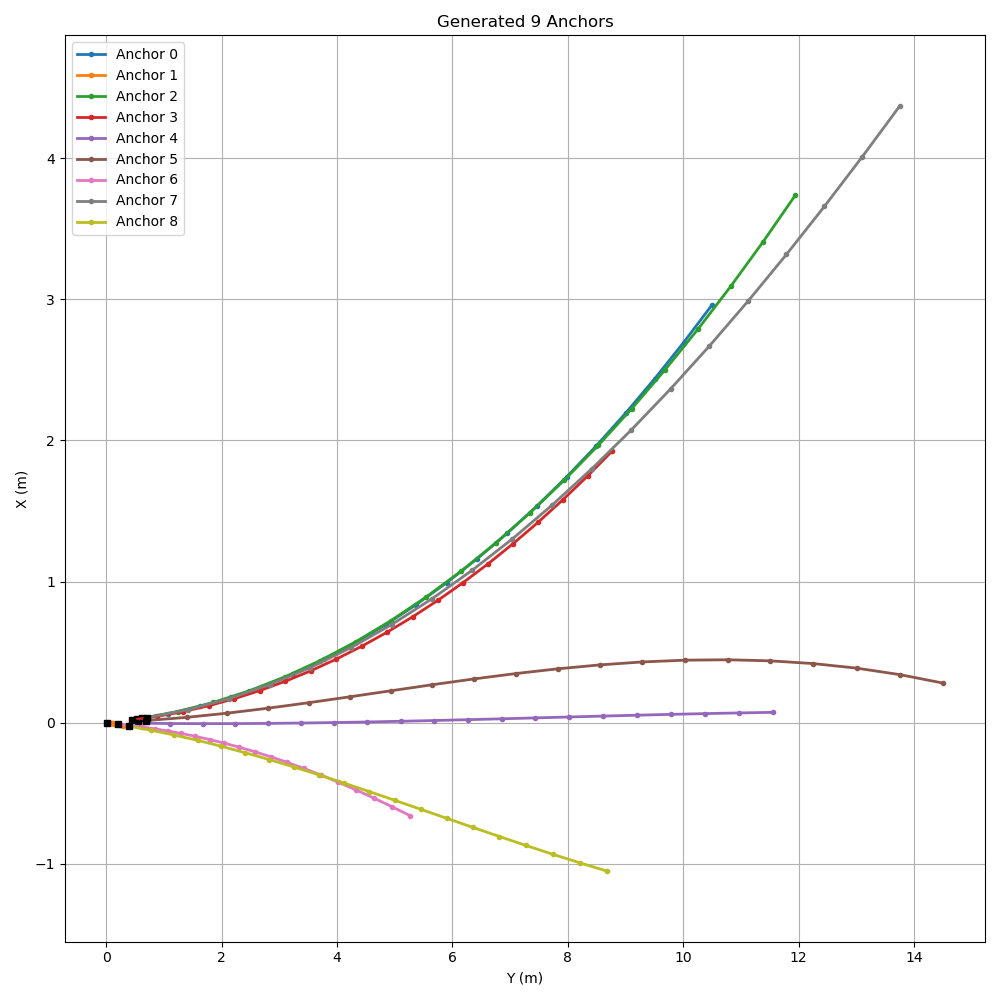
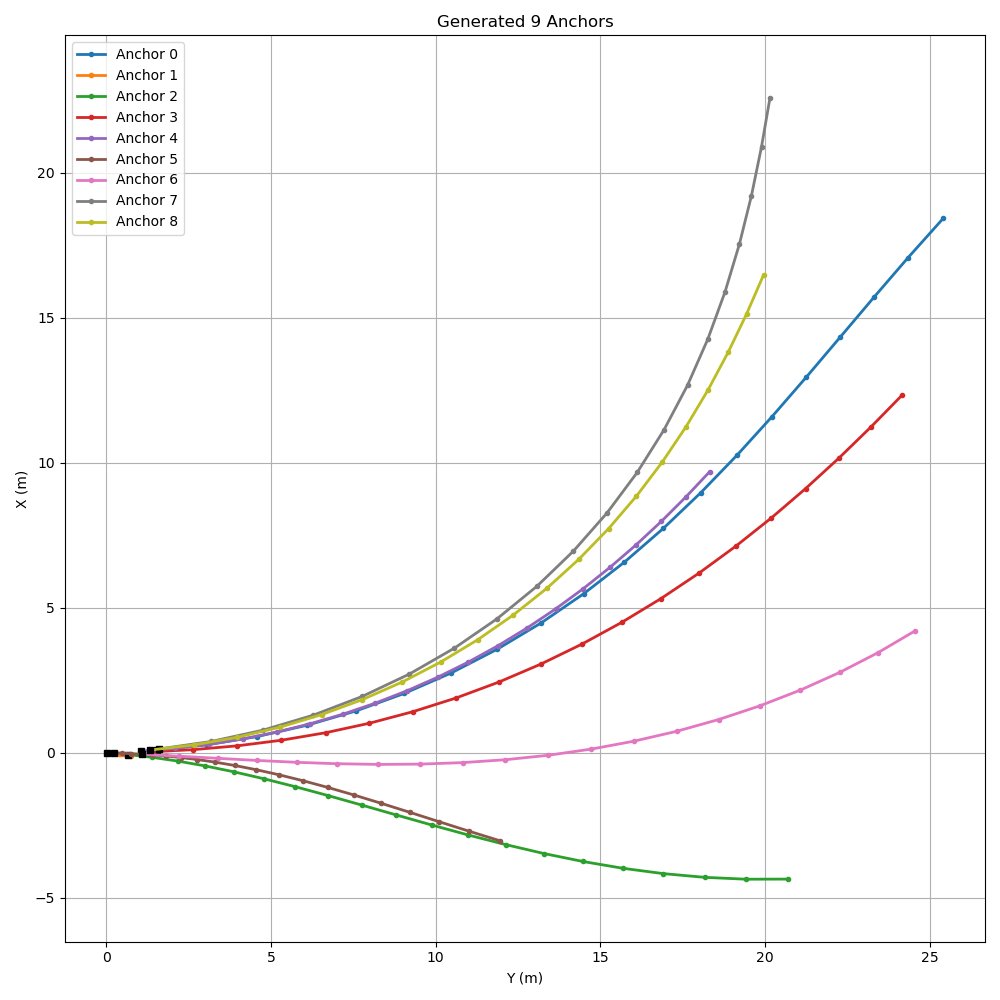
修复round数据集的ds问题

diff --git a/method_diffusion/models/fut_model.py b/method_diffusion/models/fut_model.py
@@ -5,7 +5,7 @@ import torch.nn.functional as F
 from torch import nn
 from diffusers.schedulers import DDIMScheduler
 
-from method_diffusion.dataset.build import get_time_params
+from method_diffusion.dataset.build import get_raw_dt, get_time_params
 from method_diffusion.models import dit_fut as dit
 from method_diffusion.models.hist_encoder import HistEncoder
 from method_diffusion.utils.fut_utils import build_eval_timestep_pairs, ddim_step, wrap_angle
@@ -30,6 +30,7 @@ class DiffusionFut(nn.Module):
         self.time_embedding_size = int(args.time_embedding_size_fut)
         t_h, _, d_s, fut_steps = get_time_params(self.dataset_name)
         self.T = fut_steps
+        self.fut_dt = get_raw_dt(self.dataset_name) * int(d_s)
         self.fut_k = max(1, int(args.fut_k))
         args.hist_length = t_h // d_s + 1 # (RounD=11, 其他=16)
 
@@ -70,14 +71,14 @@ class DiffusionFut(nn.Module):
 
         # 仅对 Ego future 做归一化，当前 future 定义为 [x, y, theta, v]。
         if self.dataset_name == "ngsim":
-            self.register_buffer("fut_mean", torch.tensor([-0.018481300419643788, 19.901456979887765, 1.534715060900053, 7.686064458330523], dtype=torch.float32), persistent=False)
-            self.register_buffer("fut_std", torch.tensor([0.39658419502216957, 17.144594402690345, 0.2643295194116367, 4.498907161934344], dtype=torch.float32), persistent=False)
+            self.register_buffer("fut_mean", torch.tensor([-0.018481300192213692, 19.901456733555143, 1.5347150608999751, 7.688126783170447], dtype=torch.float32), persistent=False)
+            self.register_buffer("fut_std", torch.tensor([0.3965841901361471, 17.14459418994866, 0.2643295194022676, 4.496338420923352], dtype=torch.float32), persistent=False)
         elif self.dataset_name == "highd":
-            self.register_buffer("fut_mean", torch.tensor([0.01993634166889612, 67.40101141151132, 1.5697229208053323, 25.932893225547133], dtype=torch.float32), persistent=False)
-            self.register_buffer("fut_std", torch.tensor([0.41100463701171336, 43.3330928936307, 0.04856180398145771, 7.371995854137716], dtype=torch.float32), persistent=False)
+            self.register_buffer("fut_mean", torch.tensor([0.019936341418358722, 67.40101057744636, 1.5697229208053853, 25.932254791953657], dtype=torch.float32), persistent=False)
+            self.register_buffer("fut_std", torch.tensor([0.4110046317788714, 43.33309235856911, 0.048561804002511096, 7.373680213426009], dtype=torch.float32), persistent=False)
         elif self.dataset_name == "round":
-            self.register_buffer("fut_mean", torch.tensor([0.7595664185247786, 5.124497475239467, 1.2556389840836275, 6.34337379345497], dtype=torch.float32), persistent=False)
-            self.register_buffer("fut_std", torch.tensor([1.1549527518280254, 3.789278215200064, 0.5711560130982952, 2.7548072256166347], dtype=torch.float32), persistent=False)
+            self.register_buffer("fut_mean", torch.tensor([4.144265328735691, 10.315414212723727, 0.9530915750767849, 5.86565709902721], dtype=torch.float32), persistent=False)
+            self.register_buffer("fut_std", torch.tensor([5.759155224937898, 7.615898744195818, 0.6706842296092105, 2.875255178810614], dtype=torch.float32), persistent=False)
         else:
             raise ValueError(f"Unsupported dataset '{self.dataset_name}' for fut normalization. Supported: highd, ngsim, round")
 
@@ -87,36 +88,35 @@ class DiffusionFut(nn.Module):
 
     def computeKinematicLoss(self, pred_phys, valid_mask, fut_dt):
         loss_fn = F.l1_loss # F.smooth_l1_loss
-        x = pred_phys[..., 0]
-        y = pred_phys[..., 1]
+        xy = pred_phys[..., :2]
         theta = pred_phys[..., 2]
         v = pred_phys[..., 3]
 
-        x_kin_next = x[:, :-1] + v[:, :-1] * torch.cos(theta[:, :-1]) * fut_dt
-        y_kin_next = y[:, :-1] + v[:, :-1] * torch.sin(theta[:, :-1]) * fut_dt
-        rx = x[:, 1:] - x_kin_next
-        ry = y[:, 1:] - y_kin_next
+        origin = xy.new_zeros(xy.size(0), 1, 2)
+        xy_prev = torch.cat([origin, xy[:, :-1]], dim=1)
+        xy_kin = xy_prev + torch.stack([
+            v * torch.cos(theta) * fut_dt,
+            v * torch.sin(theta) * fut_dt,
+        ], dim=-1)
+        residual = xy - xy_kin
 
-        valid_pair = valid_mask[:, :-1] * valid_mask[:, 1:]
-        valid_pair_sum = valid_pair.sum()
-        if valid_pair_sum.item() <= 0:
+        valid_sum = valid_mask.sum()
+        if valid_sum.item() <= 0:
             zero = pred_phys.new_zeros(())
             return zero, zero
 
-        kin_pred = torch.stack([rx, ry], dim=-1)
-        kin_target = torch.zeros_like(kin_pred)
-        loss_map = loss_fn(kin_pred, kin_target, reduction="none").mean(dim=-1)
-        loss_kin = (loss_map * valid_pair).sum() / (valid_pair_sum + 1e-6)
-        kin_res = torch.sqrt(rx.square() + ry.square() + 1e-12)
-        kin_res_mean = (kin_res * valid_pair).sum() / (valid_pair_sum + 1e-6)
+        kin_target = torch.zeros_like(residual)
+        loss_map = loss_fn(residual, kin_target, reduction="none").mean(dim=-1)
+        loss_kin = (loss_map * valid_mask).sum() / (valid_sum + 1e-6)
+        kin_res = torch.sqrt(residual.square().sum(dim=-1) + 1e-12)
+        kin_res_mean = (kin_res * valid_mask).sum() / (valid_sum + 1e-6)
         return loss_kin, kin_res_mean
 
     def computeLoss(self, pred_phys, target_phys, valid_mask):
         lambda_xy = 1.0
-        lambda_theta = 0.0
-        lambda_v = 0.0
+        lambda_theta = 0.1
+        lambda_v = 0.1
         lambda_kin = 0.10
-        fut_dt = 0.2
         loss_fn = F.l1_loss
 
         valid_sum = valid_mask.sum(dim=1) + 1e-6
@@ -128,10 +128,11 @@ class DiffusionFut(nn.Module):
         theta_loss_map = loss_fn(theta_diff, torch.zeros_like(theta_diff), reduction="none")
         loss_theta = ((theta_loss_map * valid_mask).sum(dim=1) / valid_sum).mean()
 
-        v_loss_map = loss_fn(pred_phys[..., 3], target_phys[..., 3], reduction="none")
+        v_scale = self.fut_std.to(device=pred_phys.device, dtype=pred_phys.dtype)[3].clamp(min=1e-6)
+        v_loss_map = loss_fn((pred_phys[..., 3] - target_phys[..., 3]) / v_scale, torch.zeros_like(pred_phys[..., 3]), reduction="none")
         loss_v = ((v_loss_map * valid_mask).sum(dim=1) / valid_sum).mean()
 
-        loss_kin, kin_res_mean = self.computeKinematicLoss(pred_phys, valid_mask, fut_dt)
+        loss_kin, kin_res_mean = self.computeKinematicLoss(pred_phys, valid_mask, self.fut_dt)
         loss_total = lambda_xy * loss_xy + lambda_theta * loss_theta + lambda_v * loss_v + lambda_kin * loss_kin
         logs = {
             "loss": loss_total.detach(),

diff --git a/method_diffusion/dataset/future_features.py b/method_diffusion/dataset/future_features.py
@@ -34,7 +34,19 @@ def derive_speed_from_positions(abs_positions, ref_position, step_dt):
     return speed.astype(np.float32, copy=False)
 
 
-def build_future_xy_theta_v(track, frame_idx, t_f, d_s):
+def build_xy_theta_v_from_positions(xy_positions, ref_position, d_s, track_dt=TRACK_DT):
+    """从位置差分统一生成 motion-state [x, y, theta, v]。"""
+    xy_positions = np.asarray(xy_positions, dtype=np.float32)
+    if xy_positions.ndim != 2 or xy_positions.shape[-1] != 2:
+        raise ValueError(f"Expected xy_positions with shape [T, 2], got {xy_positions.shape}")
+
+    step_dt = float(track_dt) * int(d_s)
+    theta = derive_theta_from_positions(xy_positions, ref_position)
+    speed = derive_speed_from_positions(xy_positions, ref_position, step_dt)
+    return np.concatenate([xy_positions, theta, speed], axis=1).astype(np.float32, copy=False)
+
+
+def build_future_xy_theta_v(track, frame_idx, t_f, d_s, track_dt=TRACK_DT):
     ref_position = track[frame_idx, 1:3].astype(np.float32, copy=False)
     start_idx = frame_idx + int(d_s)
     end_idx = min(len(track), frame_idx + int(t_f) + 1)
@@ -43,21 +55,16 @@ def build_future_xy_theta_v(track, frame_idx, t_f, d_s):
         return np.empty((0, 4), dtype=np.float32)
 
     future_xy = future_abs - ref_position
-    theta = derive_theta_from_positions(future_abs, ref_position)
-    future_v = track[start_idx:end_idx:int(d_s), 3:4].astype(np.float32, copy=False)
-    return np.concatenate([future_xy, theta, future_v], axis=1).astype(np.float32, copy=False)
+    return build_xy_theta_v_from_positions(future_xy, np.zeros(2, dtype=np.float32), d_s, track_dt=track_dt)
 
 
-def build_anchor_xy_theta_v(anchor_xy, d_s):
+def build_anchor_xy_theta_v(anchor_xy, d_s, track_dt=TRACK_DT):
     anchor_xy = np.asarray(anchor_xy, dtype=np.float32)
     if anchor_xy.ndim != 3 or anchor_xy.shape[-1] != 2:
         raise ValueError(f"Expected anchor_xy with shape [K, T, 2], got {anchor_xy.shape}")
 
-    step_dt = TRACK_DT * int(d_s)
     anchor_aug = []
     zero_ref = np.zeros(2, dtype=np.float32)
     for traj_xy in anchor_xy:
-        theta = derive_theta_from_positions(traj_xy, zero_ref)
-        speed = derive_speed_from_positions(traj_xy, zero_ref, step_dt)
-        anchor_aug.append(np.concatenate([traj_xy, theta, speed], axis=1))
+        anchor_aug.append(build_xy_theta_v_from_positions(traj_xy, zero_ref, d_s, track_dt=track_dt))
     return np.stack(anchor_aug, axis=0).astype(np.float32, copy=False)

diff --git a/method_diffusion/dataset/calculate_round_stats.py b/method_diffusion/dataset/calculate_round_stats.py
@@ -19,12 +19,12 @@ import torch
 from torch.utils.data import Dataset, DataLoader
 from tqdm import tqdm
 
-from method_diffusion.dataset.build import get_time_params
-from method_diffusion.dataset.future_features import derive_theta_from_positions
+from method_diffusion.dataset.build import get_raw_dt, get_time_params
+from method_diffusion.dataset.future_features import build_xy_theta_v_from_positions
 
 
 # ---------------------------------------------------------------------------
-# 轻量 Dataset：仅提取 future [x,y,θ,v]、hist [x,y]、va [lon_vel,lat_vel]
+# 轻量 Dataset：仅提取 future [x,y,θ,v]、hist [x,y]、va [lon_vel,lon_acc]
 # 不做邻居搜索、不做网格编码、不做 lat/lon encoding
 # ---------------------------------------------------------------------------
 
@@ -32,14 +32,15 @@ class RounDStatsDataset(Dataset):
     """
     极简 RounD 数据访问器，对齐 NgsimFutureDataset 的轻量模式。
 
-    tracks 列: Frame(0), X(1), Y(2), Heading(3), LonVel(4), LatVel(5), ...
+    tracks 列: Frame(0), X(1), Y(2), Heading(3), LonVel(4), LatVel(5), LonAcc(6), ...
     输出 (fut, hist, va)，其中 fut 为 ego-frame [x, y, θ, v]。
     """
 
-    def __init__(self, mat_file, t_h=20, t_f=40, d_s=2):
+    def __init__(self, mat_file, t_h=50, t_f=100, d_s=5):
         self.t_h = int(t_h)
         self.t_f = int(t_f)
         self.d_s = int(d_s)
+        self.raw_dt = get_raw_dt("round")
         self.max_hist = t_h // d_s + 1  # 11
         self.max_fut = t_f // d_s       # 20
 
@@ -47,6 +48,7 @@ class RounDStatsDataset(Dataset):
         self.IDX_Y = 2
         self.IDX_HEADING = 3
         self.IDX_LON_VEL = 4
+        self.IDX_LON_ACC = 6
 
         self.D, self.T = self._load(mat_file)
         self._track_cache = {}
@@ -137,9 +139,7 @@ class RounDStatsDataset(Dataset):
             return None
 
         fut_xy = self._rotate_to_ego(fut_global, ego_pos, ego_heading)
-        theta = derive_theta_from_positions(fut_xy, np.zeros(2, dtype=np.float32))
-        speed = track[fut_start:fut_end:self.d_s, self.IDX_LON_VEL:self.IDX_LON_VEL + 1].astype(np.float32)
-        fut = np.concatenate([fut_xy, theta, speed], axis=1).astype(np.float32)
+        fut = build_xy_theta_v_from_positions(fut_xy, np.zeros(2, dtype=np.float32), self.d_s, track_dt=self.raw_dt)
 
         # --- hist: ego-frame [x, y] ---
         hist_start = max(0, frame_idx - self.t_h)
@@ -148,8 +148,9 @@ class RounDStatsDataset(Dataset):
             return None
         hist = self._rotate_to_ego(hist_global, ego_pos, ego_heading)
 
-        # --- va: [lon_vel, lat_vel] ---
-        va = track[hist_start:frame_idx + 1:self.d_s, self.IDX_LON_VEL:self.IDX_LON_VEL + 2].astype(np.float32)
+        # --- va: [lon_vel, lon_acc] ---
+        hist_track = track[hist_start:frame_idx + 1:self.d_s]
+        va = np.column_stack((hist_track[:, self.IDX_LON_VEL], hist_track[:, self.IDX_LON_ACC])).astype(np.float32)
         if len(va) < self.max_hist:
             return None
 

diff --git a/method_diffusion/dataset/build.py b/method_diffusion/dataset/build.py
@@ -8,13 +8,19 @@ from method_diffusion.dataset.round_dataset import RoundDataset, RoundHistDatase
 SUPPORTED_DATASETS = ("ngsim", "highd", "round")
 
 # 数据集默认时间参数: (t_h, t_f, d_s, fut_steps)
-#   t_h, t_f = 原始帧数 (0.1s/帧)
-#   d_s       = 降采样步长 (2 → 0.2s/步)
+#   t_h, t_f = 原始帧数
+#   d_s       = 降采样步长
 #   fut_steps = 模型输出的未来步数 (= t_f / d_s)
 _DATASET_TIME_PARAMS = {
     "ngsim":  (30, 50, 2, 25),
     "highd":  (30, 50, 2, 25),
-    "round":  (20, 40, 2, 20),
+    "round":  (50, 100, 5, 20),
+}
+
+_DATASET_RAW_DT = {
+    "ngsim": 0.1,
+    "highd": 0.1,
+    "round": 0.04,
 }
 
 
@@ -29,6 +35,11 @@ def normalize_dataset_name(dataset):
 def get_time_params(dataset):
     """返回 (t_h, t_f, d_s, fut_steps)。调用方可用 fut_steps 设置模型 T_f。"""
     return _DATASET_TIME_PARAMS[normalize_dataset_name(dataset)]
+
+
+def get_raw_dt(dataset):
+    """返回原始轨迹帧间隔，单位秒。"""
+    return _DATASET_RAW_DT[normalize_dataset_name(dataset)]
 
 
 def get_data_root(args, dataset):

diff --git a/method_diffusion/dataset/round_dataset.py b/method_diffusion/dataset/round_dataset.py
@@ -4,7 +4,7 @@ from torch.utils.data import Dataset
 import scipy.io as scp
 import h5py
 
-from method_diffusion.dataset.future_features import derive_theta_from_positions
+from method_diffusion.dataset.future_features import build_xy_theta_v_from_positions
 
 
 class RoundDataset(Dataset):
@@ -15,7 +15,7 @@ class RoundDataset(Dataset):
     history / neighbor 使用 ego 局部坐标，future 为 [x, y, theta, v]。
     """
 
-    def __init__(self, mat_file, t_h=20, t_f=40, d_s=2, enc_size=64, grid_size=(13, 3), feature_dim=4):
+    def __init__(self, mat_file, t_h=50, t_f=100, d_s=5, enc_size=64, grid_size=(13, 3), feature_dim=4):
         self.D, self.T = self._load_mat(mat_file)
         self.t_h = int(t_h)
         self.t_f = int(t_f)
@@ -23,6 +23,7 @@ class RoundDataset(Dataset):
         self.enc_size = int(enc_size)
         self.grid_size = grid_size
         self.feature_dim = int(feature_dim)
+        self.raw_dt = 0.04
         self.max_hist_len = self.t_h // self.d_s + 1
         self.max_fut_len = self.t_f // self.d_s if self.t_f > 0 else 0
 
@@ -31,6 +32,7 @@ class RoundDataset(Dataset):
         self.idx_y = 2
         self.idx_heading = 3
         self.idx_v = 4
+        self.idx_a = 6
         self.idx_lane = 8
         self.valid_indices = self._build_valid_indices()
 
@@ -173,9 +175,7 @@ class RoundDataset(Dataset):
             return np.empty((0, 4), dtype=np.float32)
 
         fut_xy = self.rotate_to_ego_frame(fut_global, ego_pos, ego_heading)
-        theta = derive_theta_from_positions(fut_xy, np.zeros(2, dtype=np.float32))
-        speed = track[stpt:enpt:self.d_s, self.idx_v:self.idx_v + 1].astype(np.float32, copy=False)
-        return np.concatenate([fut_xy, theta, speed], axis=1).astype(np.float32, copy=False)
+        return build_xy_theta_v_from_positions(fut_xy, np.zeros(2, dtype=np.float32), self.d_s, track_dt=self.raw_dt)
 
     def getVA(self, veh_id, t, ds_id):
         track = self._get_track(ds_id, veh_id)
@@ -186,7 +186,8 @@ class RoundDataset(Dataset):
             return np.empty((0, 2), dtype=np.float32)
 
         stpt = max(0, frame_idx - self.t_h)
-        va = track[stpt:frame_idx + 1:self.d_s, self.idx_v:self.idx_v + 2]
+        hist_track = track[stpt:frame_idx + 1:self.d_s]
+        va = np.column_stack((hist_track[:, self.idx_v], hist_track[:, self.idx_a]))
         if len(va) < self.max_hist_len:
             return np.empty((0, 2), dtype=np.float32)
         return va.astype(np.float32, copy=False)
@@ -401,7 +402,7 @@ class RoundDataset(Dataset):
 class RoundHistDataset(RoundDataset):
     """rounD history-only 数据集，输出对齐 NgsimHistDataset。"""
 
-    def __init__(self, mat_file, t_h=20, t_f=0, d_s=2, **kwargs):
+    def __init__(self, mat_file, t_h=50, t_f=0, d_s=5, **kwargs):
         super().__init__(mat_file, t_h=t_h, t_f=t_f, d_s=d_s, **kwargs)
 
     def __getitem__(self, idx):

diff --git a/method_diffusion/dataset/anchor.py b/method_diffusion/dataset/anchor.py
@@ -7,7 +7,7 @@ from sklearn.cluster import KMeans
 from tqdm import tqdm
 
 from method_diffusion.dataset.future_features import build_anchor_xy_theta_v
-from method_diffusion.dataset.build import build_trajectory_dataset, get_split_path, get_time_params
+from method_diffusion.dataset.build import build_trajectory_dataset, get_raw_dt, get_split_path, get_time_params
 
 
 def get_args():
@@ -87,6 +87,7 @@ def visualize_anchors(anchor, vis_path):
 def generate_anchors(args):
     dataset = build_anchor_dataset(args)
     _, _, d_s, fut_steps = get_time_params(args.dataset)
+    raw_dt = get_raw_dt(args.dataset)
     all_futures_xy = []
 
     print(f"Collecting trajectories (target {fut_steps} steps)...")
@@ -111,7 +112,7 @@ def generate_anchors(args):
     kmeans.fit(all_futures_xy)
 
     anchor_xy = kmeans.cluster_centers_.reshape(args.anchor_k, fut_steps, 2).astype(np.float32, copy=False)
-    anchor = torch.from_numpy(build_anchor_xy_theta_v(anchor_xy, d_s=d_s)).float()
+    anchor = torch.from_numpy(build_anchor_xy_theta_v(anchor_xy, d_s=d_s, track_dt=raw_dt)).float()
     anchor_path, _ = get_save_paths(args)
     torch.save(anchor, anchor_path)
     print(f"Anchors saved to {anchor_path} (shape {anchor.shape})")

diff --git a/method_diffusion/config.py b/method_diffusion/config.py
@@ -4,7 +4,7 @@ def get_args_parser():
     parser = argparse.ArgumentParser("Set diffusion predicter", add_help=False)
 
     # Data
-    parser.add_argument("--dataset", default="ngsim", type=str, choices=["ngsim", "highd", "round"])
+    parser.add_argument("--dataset", default="highd", type=str, choices=["ngsim", "highd", "round"])
     parser.add_argument("--data_root_ngsim", default="/mnt/datasets/ngsimdata", type=str)
     parser.add_argument("--data_root_highd", default="/mnt/datasets/highDdata", type=str)
     parser.add_argument("--data_root_round", default="/mnt/datasets/round", type=str)